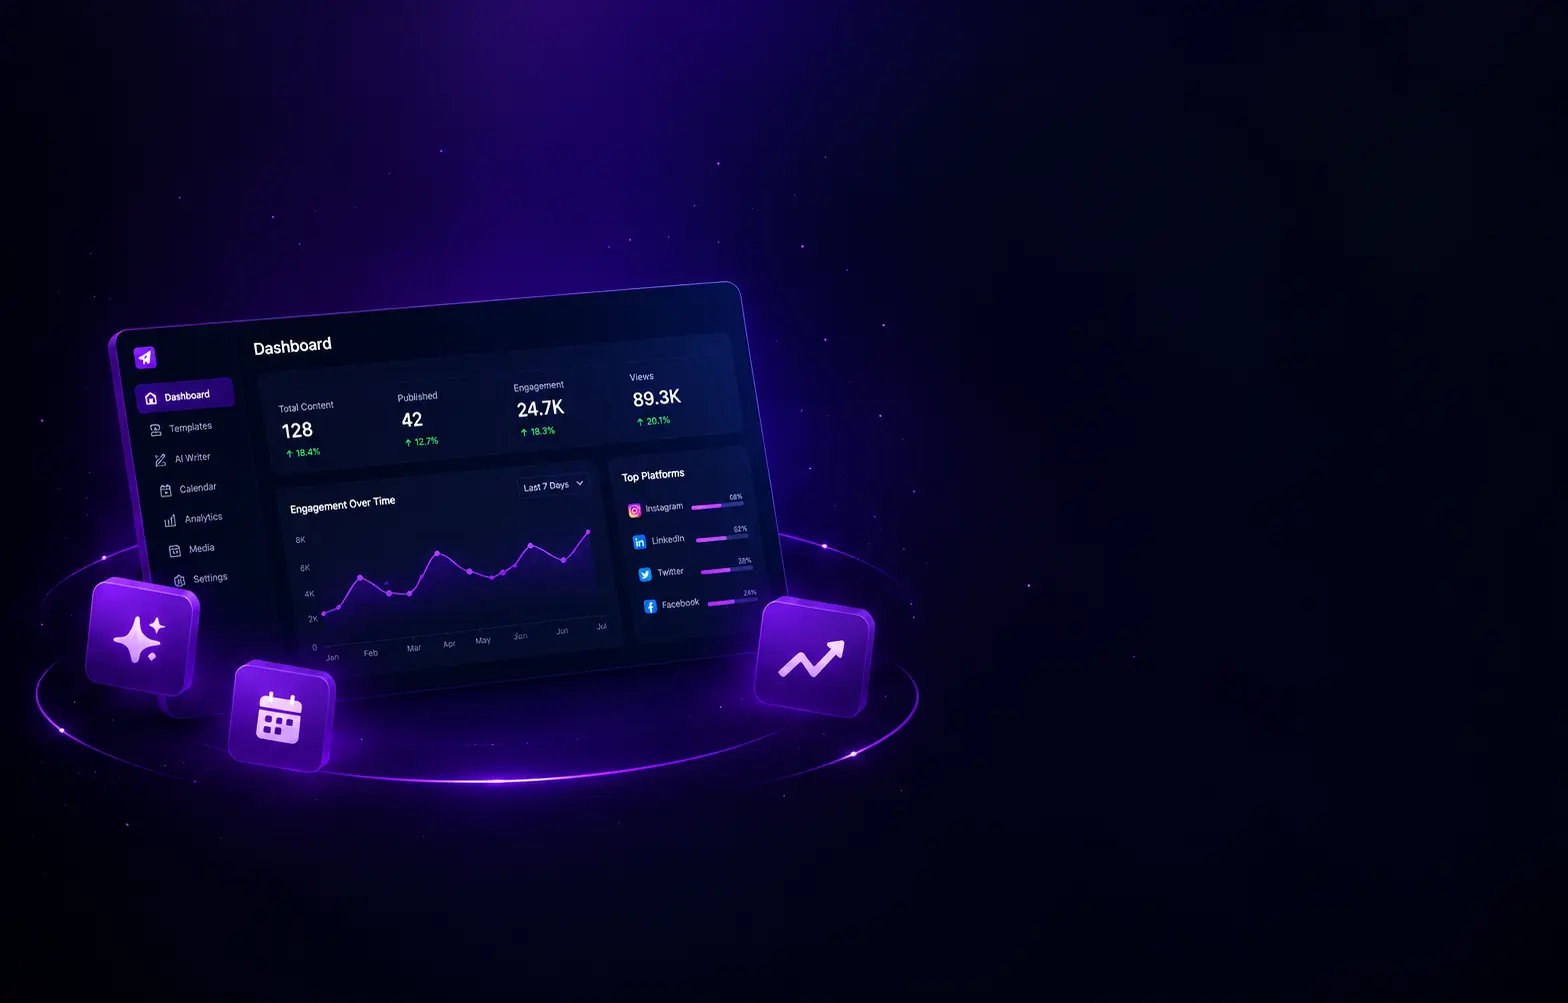
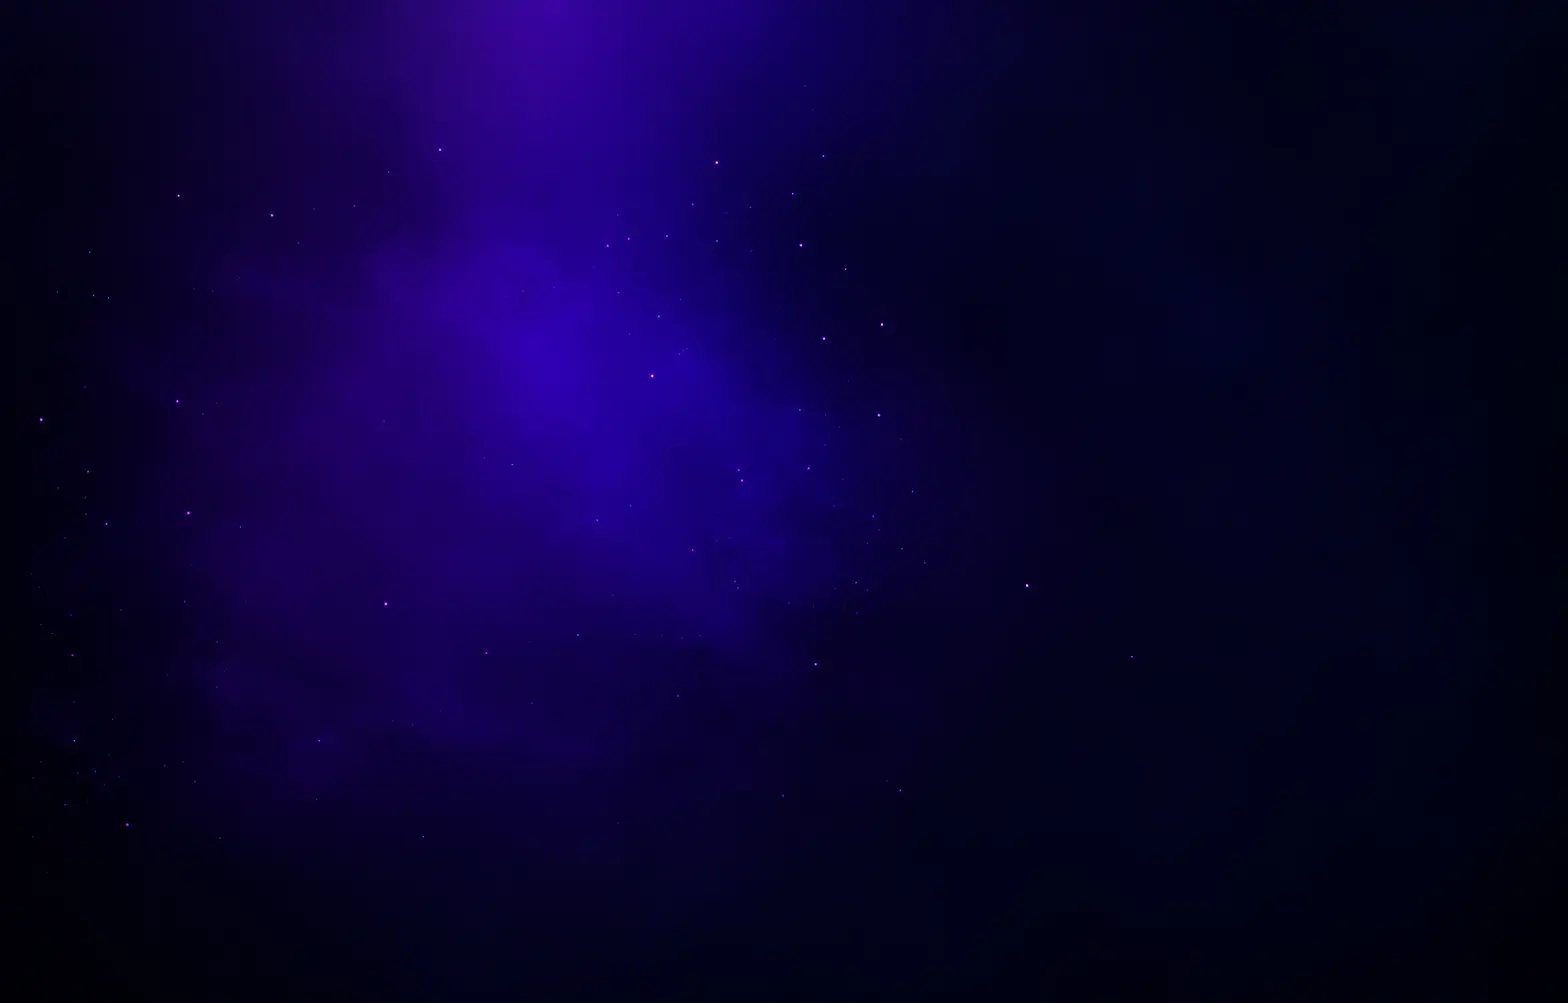
Form styling is 50% done and more to fix

Changed region(s): [[0.0312, 0.0, 0.5938, 0.8036], [0.0312, 0.7109, 0.0625, 0.7418], [0.0, 0.68, 0.0312, 0.7109]]

diff --git a/src/pages/auth/Login/Login.jsx b/src/pages/auth/Login/Login.jsx
@@ -1,10 +1,10 @@
 import React from "react";
 import logoImg from "../../../assets/New folder/logoImage.png";
 import heroImg from "../../../assets/Auth Page/heroImg.webp";
-import googleImg from '../../../assets/Auth Page/google.png'
-import microsoftImg from '../../../assets/Auth Page/microsoft.png'
-import appleImg from '../../../assets/Auth Page/apple.png'
-
+import googleImg from "../../../assets/Auth Page/google.png";
+import microsoftImg from "../../../assets/Auth Page/microsoft.png";
+import appleImg from "../../../assets/Auth Page/apple.png";
+import bundle from "../../../assets/Auth Page/bundle.webp";
 
 import { features } from "../../../data/features";
 
@@ -12,11 +12,11 @@ export default function Login() {
   return (
     <div className="LoginMainContainer border min-h-screen flex justify-center items-center    ">
       <div
-        className="contentMainContainer max-w-[1600px] mx-auto p-3  bg-cover bg-no-repeat bg-center "
+        className="contentMainContainer max-w-[1600px] mx-auto p-3  bg-contain bg-no-repeat bg-center "
         style={{ backgroundImage: `url(${heroImg})` }}
       >
-        <div className="insideWrapperContainer grid grid-cols-2 gap-3.5">
-          <div className="leftSideContainer border  flex flex-col justify-between p-1.5">
+        <div className="insideWrapperContainer  grid grid-cols-[1fr_1fr] gap-3.5 ">
+          <div className="leftSideContainer    flex flex-col justify-between p-8">
             <div className="topSideContainer">
               {" "}
               <div className="logoBox  flex items-center font-bold gap-2">
@@ -40,8 +40,11 @@ export default function Login() {
                 </p>
               </div>
             </div>
-            <div className="bottomContainer">
-              <div className="featuresBoxWrapper flex border p-1.5 gap-1">
+            <div>
+              <img className="" src={bundle} alt="bundle" />
+            </div>
+            <div className="bottomContainer py-2.5 flex flex-col gap-3">
+              <div className="featuresBoxWrapper flex  p-1.5 gap-1">
                 {features.map((feature) => (
                   <>
                     <div className="featureBox  flex flex-col items-center p-2 gap-1.5 ">
@@ -58,9 +61,9 @@ export default function Login() {
                       </p>
                     </div>
                     {feature.id === 4 ? (
-                      <div className="hidden"></div>
+                      <div className=""></div>
                     ) : (
-                      <div className="w-0.5 h-full bg-[#1E293B]"></div>
+                      <div className="w-0.5  bg-[#1E293B]"></div>
                     )}
                   </>
                 ))}
@@ -82,62 +85,101 @@ export default function Login() {
               </div>
             </div>
           </div>
-          <div className="rightSideContainer border ">
-            <div className="toggleMode">
-              <i class="fa-regular fa-moon"></i>
-              <p>Dark</p>
-              <i class="fa-solid fa-angle-down"></i>
+          <div className="rightSideContainer  border flex flex-col   gap-3 bg-[#0D131D] border-[#1E293B] rounded-lg p-2">
+            <div className="toggleWrapper flex justify-end ">
+              <div className="toggleMode border flex items-center py-2 px-3.5 gap-1.5 align-right cursor-pointer">
+                <i className="fa-regular fa-moon text-[12px]"></i>
+                <p className="text-[12px] font-medium">Dark</p>
+                <i className="fa-solid fa-angle-down text-[12px]"></i>
+              </div>
             </div>
-                <div className="innerFormContainer border">
-                <div className="headingInfo">
-                  <h2>Welcome back</h2>
-                  <p>Sign in to continue to <span>ContentPilot Al</span></p>
-                </div>
-              <form>
-                <div className="emailBox">
+            <div className="innerFormContainer flex flex-col  border w-140 mx-auto px-5 py-10 border-[#1E293B] bg-[#111927] rounded-lg gap-3.5">
+              <div className="headingInfo py-3.5">
+                <h2 className="text-2xl font-semibold">Welcome back 👋</h2>
+                <p className="text-[18px] font-medium text-[#94A3B8]">
+                  Sign in to continue to{" "}
+                  <span className="text-purple-500">ContentPilot Al</span>
+                </p>
+              </div>
+              <form className=" flex flex-col gap-6 py-3.5">
+                <div className="emailBox  flex flex-col gap-1">
                   <label htmlFor="">Email address</label>
-                  <div className="emailInputField">
-                    <input type="email" name="" id="" placeholder="Enter your email"/>
+                  <div className="emailInputField border p-2 flex items-center gap-1  rounded-lg border-[#1E293B]">
+                    <i class="fa-solid fa-envelope text-[#94A3B8]"></i>
+                    <input
+                      className="w-[90%]"
+                      type="email"
+                      name=""
+                      id=""
+                      placeholder="Enter your email"
+                    />
                   </div>
                 </div>
-                <div className="passwordBox">
-                  <div className="passwordWrapper">
+                <div className="passwordBox  flex flex-col gap-1">
+                  <div className="passwordWrapper flex justify-between items-center ">
                     <label htmlFor="">Password</label>
-                    <p>Forgot password?</p>
+                    <p className="text-purple-500">Forgot password?</p>
                   </div>
-                  <div className="passwordInputField">
-                    <input type="password" name="" id="" placeholder="Enter your password"/>
+                  <div className="passwordInputField border p-2 flex items-center gap-1 rounded-lg border-[#1E293B] ">
+                    <i class="fa-solid fa-lock text-[#94A3B8]"></i>
+                    <input
+                      className="w-[90%]"
+                      type="password"
+                      name=""
+                      id=""
+                      placeholder="Enter your password"
+                    />
                   </div>
                 </div>
-                <div className="checkBox">
-                  <div></div>
+                <div className="checkBox flex items-center gap-2 ">
+                  <div className="w-4 h-4 border rounded-xs"></div>
                   <p>Remember me</p>
                 </div>
 
-                <button type="submit"><p>sign in</p><p><i class="fa-solid fa-arrow-right"></i></p></button>
+                <button
+                  className="border flex  p-2 rounded-lg bg-purple-600"
+                  type="submit"
+                >
+                  <p>sign in</p>
+                  <span>
+                    <i className="fa-solid fa-arrow-right align-right"></i>
+                  </span>
+                </button>
               </form>
 
-              <div className="divider">
+              <div className="divider grid grid-cols-3 items-center py-3.5">
                 <hr />
-                <p>or Continue with</p>
+                <p className="text-center">or Continue with</p>
                 <hr />
               </div>
 
-                <div className="socialLinkBoxContainer">
-                  <div className="socialBox"><img src={googleImg} alt="google" /><p>Google</p></div>
-                  <div className="socialBox"><img src={microsoftImg} alt="microsoft" /><p>Microsoft</p></div>
-                  <div className="socialBox"><img src={appleImg} alt="apple" /><p>Apple</p></div>
+              <div className="socialLinkBoxContainer flex  items-center justify-between py-6">
+                <div className="socialBox border flex gap-2 items-center py-2 px-2 rounded-lg  w-40 justify-center ">
+                  <img className="w-5" src={googleImg} alt="google" />
+                  <p>Google</p>
                 </div>
-                 <hr />
-                <div className="div">
-                  <p>Don't have an account? <span>Sign up</span></p>
+                <div className="socialBox border flex gap-2 items-center p py-2 px-2 rounded-lg w-40 justify-center ">
+                  <img className="w-5" src={microsoftImg} alt="microsoft" />
+                  <p>Microsoft</p>
                 </div>
+                <div className="socialBox border flex gap-2 items-center p py-2 px-2 rounded-lg w-40 justify-center ">
+                  <img className="w-5" src={appleImg} alt="apple" />
+                  <p>Apple</p>
                 </div>
-              <div className="bottomInfo">
-                <p><i class="fa-solid fa-shield"></i> Your data is secure with us.</p>
-                <p>We never share your information with anyone.</p>
               </div>
-
+              <hr />
+              <div className="div p-5 text-center text-[14px]">
+                <p>
+                  Don't have an account? <span className="text-purple-500">Sign up</span>
+                </p>
+              </div> 
+            </div>
+            <div className="bottomInfo">
+              <p>
+                <i class="fa-solid fa-shield"></i> Your data is secure with us.
+              </p>
+              <p>We never share your information with anyone.</p>
+            </div>
           </div>
         </div>
       </div>
